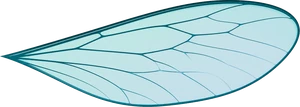
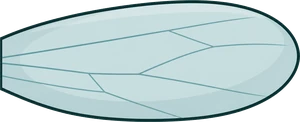
Recupera el bicho bonito y pega las alas al cuerpo
- Cuerpo nuevo con las proporciones de la luciernaga original: cabezon, ojo grande,
  cuerpo regordete y farolito gordo. El anterior parecia una hormiga
- El ala ahora tiene la raiz cortada recta y ancha (44% de su alto contra el borde),
  no una punta fina
- La raiz se entierra un 16% dentro del cuerpo y el hombro va DENTRO de la silueta:
  antes nacia en el borde del lomo y se leian como dos dibujos sueltos
- Recorrido del aleteo mas corto para que no se despegue al abrir

diff --git a/src/game.js b/src/game.js
@@ -889,7 +889,11 @@
 
   // La raiz del ala esta en el borde izquierdo de su imagen, a esta altura (medida
   // sobre el archivo, no supuesta). Es el punto por el que gira.
-  var ALA_PIVOTE = 0.523;
+  var ALA_PIVOTE = 0.520;
+
+  // Cuanto se mete la raiz del ala DENTRO del cuerpo. Sin esto el ala nace justo en el
+  // borde del lomo y se lee como una pieza suelta flotando al lado del bicho.
+  var ALA_ENCASTRE = 0.16;
 
   // Gira el ala tomandola por la raiz. El scale(-1,1) la manda hacia ATRAS, porque el
   // bicho mira a la derecha y el ala se le pega al lomo apuntando a la cola.
@@ -899,7 +903,7 @@
     ctx.scale(-1, 1);
     ctx.rotate(ang);
     ctx.globalAlpha = alpha;
-    ctx.drawImage(img, 0, -h * ALA_PIVOTE, w, h);
+    ctx.drawImage(img, -w * ALA_ENCASTRE, -h * ALA_PIVOTE, w, h);
     ctx.restore();
   }
 
@@ -947,16 +951,18 @@
       // Bate solo, y mas rapido durante el salto: el aleteo rapido es lo que hace
       // legible que el toque hizo algo.
       var vel = S.bird.flapT > 0 ? 34 : 16;
-      var ang = 0.30 + 0.52 * Math.sin(S.t * vel);
+      var ang = 0.34 + 0.38 * Math.sin(S.t * vel);
 
-      var ww = bw * 0.80;
+      var ww = bw * 0.72;
       var wh = ww * IMG.ala.height / IMG.ala.width;
 
       ctx.save();
       ctx.translate(x, y);
       ctx.rotate(S.bird.rot * 0.45);
 
-      var hx = bw * 0.10, hy = -bh * 0.40;          // el hombro, sobre el lomo
+      // El hombro va DENTRO de la silueta, sobre el torax: si se pone en el borde de
+      // arriba, el ala queda despegada y parecen dos dibujos distintos.
+      var hx = -bw * 0.04, hy = -bh * 0.12;
       dibujarAla(alaImg, hx, hy, ww, wh, ang - 0.34, 0.42);   // ala de atras
       ctx.drawImage(cuerpo, -bw / 2, -bh / 2, bw, bh);
       dibujarAla(alaImg, hx, hy, ww, wh, ang, 0.82);          // ala de delante
